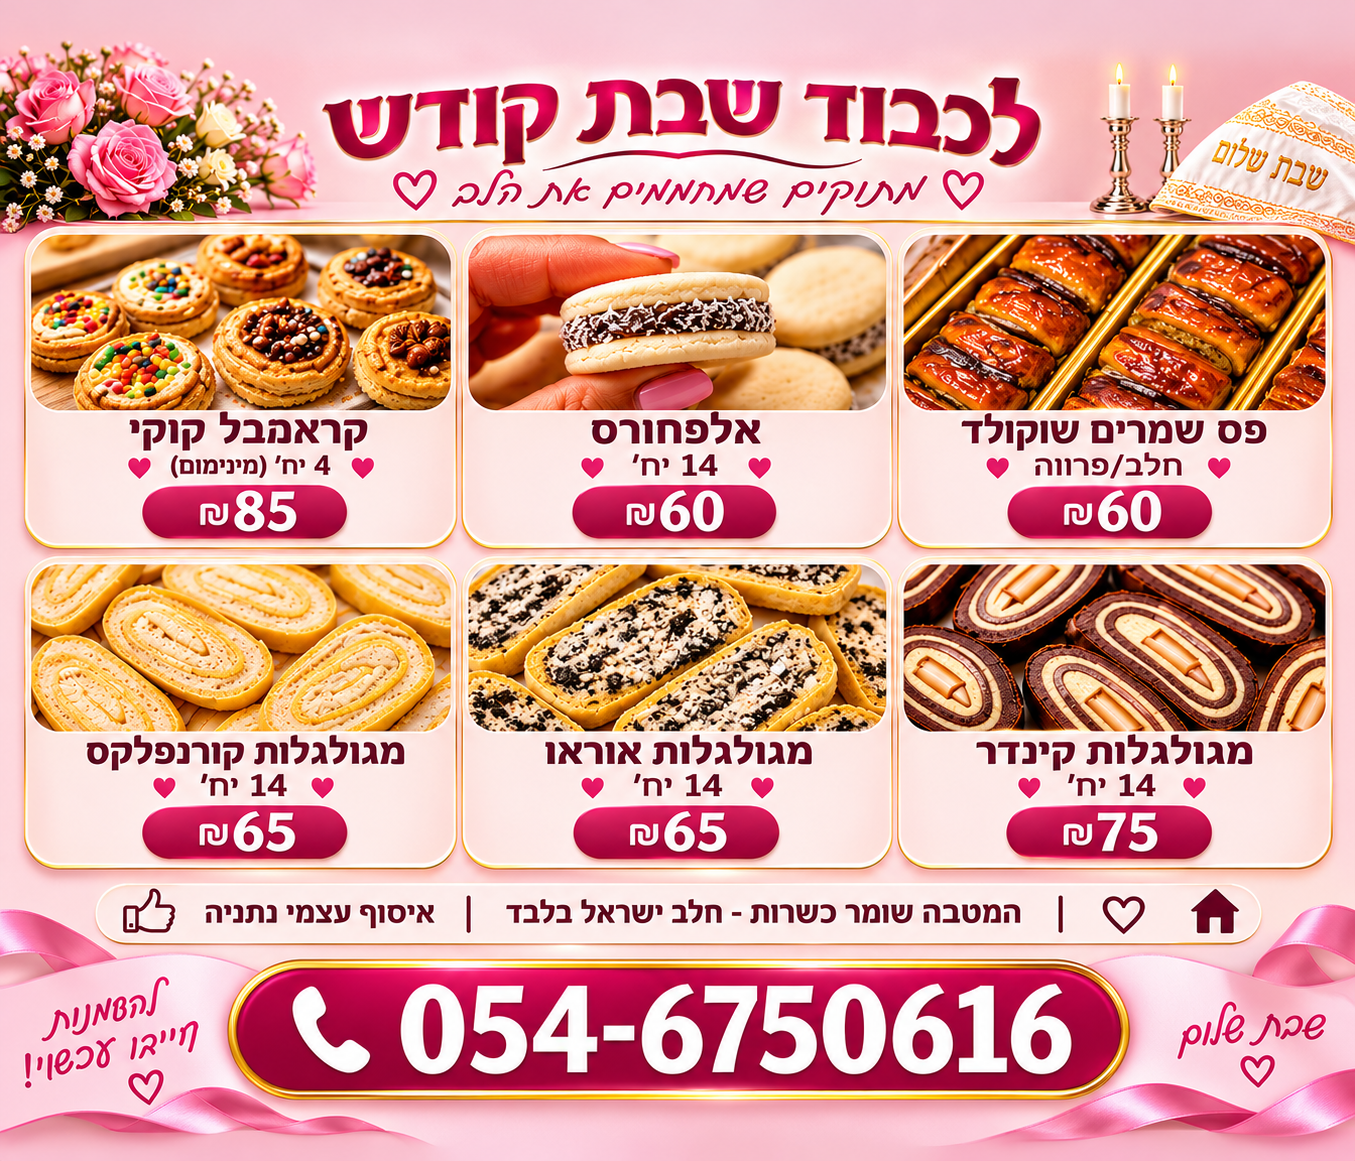
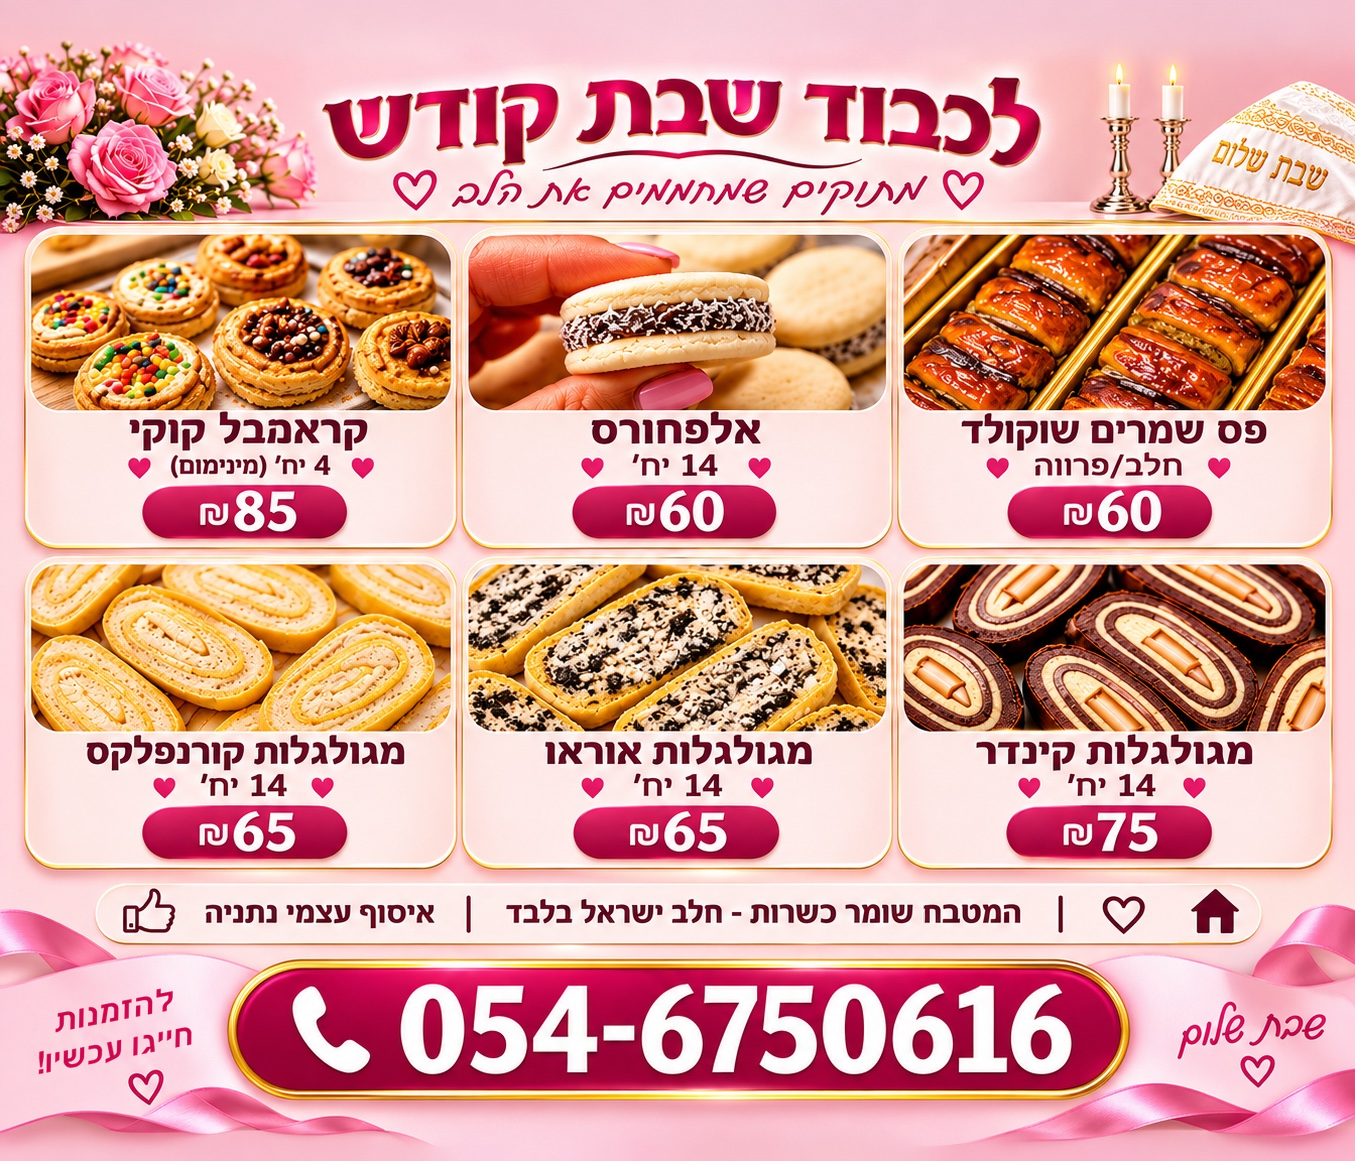
Add files via upload

diff --git a/index.html b/index.html
@@ -1,0 +1,205 @@
+<!doctype html>
+<html lang="he" dir="rtl">
+<head>
+<meta charset="utf-8">
+<meta name="viewport" content="width=device-width,initial-scale=1">
+<meta http-equiv="Cache-Control" content="no-cache, no-store, must-revalidate">
+<meta http-equiv="Pragma" content="no-cache">
+<meta http-equiv="Expires" content="0">
+<title>מסך לובי</title>
+<style>
+:root{--green:#0cad43;--border:#cfd5d8}
+*{box-sizing:border-box}
+html,body{margin:0;width:100%;height:100%;overflow:hidden;background:#111;font-family:Arial,"Noto Sans Hebrew",sans-serif;color:#111}
+.app{width:100vw;height:100vh;background:#fff;display:grid;grid-template-columns:60% 40%;grid-template-rows:calc(100vh - 92px) 92px;direction:ltr}
+.visual{position:relative;overflow:hidden;background:#fff;border-right:1px solid var(--border)}
+.visual img{width:100%;height:100%;object-fit:contain;object-position:center;display:block;background:#fff}
+.panel{direction:rtl;padding:18px 22px 12px;display:grid;grid-template-rows:auto auto auto 1fr;gap:10px;background:#fff}
+.topbar{background:#242a31;color:#fff;text-align:center;font-size:28px;font-weight:700;padding:10px}
+.clock{text-align:center}
+.time{font-size:92px;line-height:1;color:#17c53f;font-weight:500;letter-spacing:2px}
+.date{font-size:24px;margin-top:7px;color:#333}
+.weather{border-top:1px solid #d7d7d7;border-bottom:1px solid #e5e5e5;padding:12px 0 13px;display:grid;grid-template-columns:1.05fr 1.2fr;gap:10px;align-items:center}
+.now{display:flex;justify-content:center;align-items:center;gap:12px}
+.bigicon{font-size:60px}.bigtemp{font-size:58px;line-height:1}.desc{font-size:18px;color:#555;margin-top:6px}
+.forecast{display:grid;grid-template-columns:repeat(3,1fr)}
+.fday{text-align:center;border-right:1px solid #ddd;font-size:15px}.fday:last-child{border-right:none}
+.ficon{font-size:27px;margin:5px 0}.fhi{font-size:20px}.flo{font-size:14px;color:#777}
+.notices{align-self:stretch;background:linear-gradient(#11ad41,#079437);color:#fff;overflow:hidden}
+.ntitle{text-align:center;font-size:28px;font-weight:700;padding:10px;border-bottom:1px solid rgba(255,255,255,.28)}
+.nbody{padding:12px 16px;font-size:20px;line-height:1.55;text-align:right}
+.ticker{grid-column:1/3;display:grid;grid-template-columns:1fr 190px;background:#f5f5f5;border-top:1px solid #c7c7c7;overflow:hidden;direction:ltr}
+.newswindow{position:relative;overflow:hidden;height:100%;direction:rtl}
+.newsline{position:absolute;top:50%;right:100%;white-space:nowrap;font-size:25px;transform:translateY(-50%);animation:moveRTL 55s linear infinite;direction:rtl;text-align:right}
+@keyframes moveRTL{0%{right:100%}100%{right:-300%}}
+.brand{display:flex;align-items:center;justify-content:center;gap:5px;border-left:1px solid #bbb;font:bold 41px Arial;direction:ltr}
+.y{width:52px;height:52px;border-radius:50%;display:flex;align-items:center;justify-content:center;background:#d90000;color:#fff;font-size:38px}
+@media(max-width:1000px){.time{font-size:70px}.topbar{font-size:22px}.date{font-size:19px}.nbody{font-size:17px}.newsline{font-size:21px}}
+</style>
+</head>
+<body>
+<div class="app">
+  <section class="visual">
+    <img id="mainImage" alt="תמונת לובי">
+  </section>
+
+  <aside class="panel">
+    <div class="topbar">ברוכים הבאים לבניין</div>
+
+    <div class="clock">
+      <div class="time" id="time">--:--</div>
+      <div class="date" id="date"></div>
+    </div>
+
+    <div class="weather">
+      <div class="now">
+        <div class="bigicon" id="wicon">☀</div>
+        <div>
+          <div class="bigtemp" id="temp">--°</div>
+          <div class="desc" id="desc">מזג האוויר בנתניה</div>
+        </div>
+      </div>
+      <div class="forecast" id="forecast"></div>
+    </div>
+
+    <div class="notices">
+      <div class="ntitle">הודעות לדיירים</div>
+      <div class="nbody">
+        <div>• נא לשמור על ניקיון הלובי והשטחים המשותפים</div>
+        <div>• אין להשאיר ציוד בשטחים המשותפים</div>
+        <div>• המבנה מצולם 24/7</div>
+        <div>• תודה על שיתוף הפעולה</div>
+      </div>
+    </div>
+  </aside>
+
+  <footer class="ticker">
+    <div class="newswindow"><div class="newsline" id="news">טוען כותרות ynet...</div></div>
+    <div class="brand"><span class="y">y</span><span>net</span></div>
+  </footer>
+</div>
+
+<script>
+const $=id=>document.getElementById(id);
+
+/* רוטציית תמונות יציבה — תמונה אחרת בכל דקה לפי השעון */
+const lobbyImages = [
+  'business-ad.png',
+  'gurman.png',
+  'pizza-balls.png',
+  'cleanliness.jpg',
+  'itzik-electrician.png',
+  'shabbat-sweets-wide.png',
+  'aviva-mahlouf.png'
+];
+
+const SLOT_MS = 60 * 1000;
+const mainImage = $('mainImage');
+let shownSlot = -1;
+let loadToken = 0;
+
+function loadSlideForSlot(slot){
+  const token = ++loadToken;
+  const total = lobbyImages.length;
+  const firstIndex = slot % total;
+  let attempts = 0;
+
+  function tryIndex(index){
+    if (token !== loadToken) return;
+    const file = lobbyImages[index];
+    const src = file + '?slot=' + slot + '&rev=20261113-mitbach-fixed';
+    const probe = new Image();
+
+    probe.onload = function(){
+      if (token !== loadToken) return;
+      mainImage.src = src;
+      mainImage.dataset.file = file;
+    };
+
+    probe.onerror = function(){
+      attempts++;
+      if (attempts < total) {
+        tryIndex((index + 1) % total);
+      }
+    };
+
+    probe.src = src;
+  }
+
+  tryIndex(firstIndex);
+}
+
+function updateLobbyImage(force){
+  const slot = Math.floor(Date.now() / SLOT_MS);
+  if (!force && slot === shownSlot) return;
+  shownSlot = slot;
+  loadSlideForSlot(slot);
+}
+
+/* בדיקה כל שנייה. גם אם הטלוויזיה/דפדפן השהו טיימרים, החישוב לפי השעה מחזיר מיד לתמונה הנכונה. */
+updateLobbyImage(true);
+setInterval(function(){ updateLobbyImage(false); }, 1000);
+
+/* חזרה למסך אחרי שינה/מעבר אפליקציה */
+document.addEventListener('visibilitychange', function(){
+  if (!document.hidden) updateLobbyImage(true);
+});
+window.addEventListener('focus', function(){ updateLobbyImage(true); });
+window.addEventListener('pageshow', function(){ updateLobbyImage(true); });
+
+function updateClock(){
+  const d=new Date();
+  $('time').textContent=d.toLocaleTimeString('he-IL',{hour:'2-digit',minute:'2-digit',hour12:false});
+  $('date').textContent=d.toLocaleDateString('he-IL',{weekday:'long',day:'numeric',month:'long',year:'numeric'});
+}
+updateClock(); setInterval(updateClock,1000);
+
+function weatherLabel(c){
+ const m={0:['בהיר','☀'],1:['בהיר לרוב','🌤'],2:['מעונן חלקית','⛅'],3:['מעונן','☁'],45:['ערפל','🌫'],48:['ערפל','🌫'],51:['טפטוף קל','🌦'],53:['טפטוף','🌦'],55:['טפטוף חזק','🌧'],61:['גשם קל','🌦'],63:['גשם','🌧'],65:['גשם חזק','🌧'],80:['ממטרים','🌦'],81:['ממטרים','🌧'],82:['ממטרים חזקים','⛈'],95:['סופת רעמים','⛈'],96:['סופת רעמים','⛈'],99:['סופת רעמים','⛈']};
+ return m[c]||['מזג אוויר','🌤'];
+}
+async function getJSON(url,timeout=12000){
+ const ctl=new AbortController(), t=setTimeout(()=>ctl.abort(),timeout);
+ try{
+   const r=await fetch(url,{cache:'no-store',signal:ctl.signal});
+   if(!r.ok) throw new Error(r.status);
+   return await r.json();
+ } finally { clearTimeout(t); }
+}
+async function updateWeather(){
+ try{
+   const d=await getJSON('https://api.open-meteo.com/v1/forecast?latitude=32.3215&longitude=34.8532&current=temperature_2m,weather_code&daily=weather_code,temperature_2m_max,temperature_2m_min&timezone=Asia%2FJerusalem&forecast_days=4&ts='+Date.now());
+   const [txt,ic]=weatherLabel(d.current.weather_code);
+   $('temp').textContent=Math.round(d.current.temperature_2m)+'°';
+   $('desc').textContent=txt+' • נתניה';
+   $('wicon').textContent=ic;
+   $('forecast').innerHTML='';
+   ['היום','מחר','מחרתיים'].forEach((name,i)=>{
+      const [,fi]=weatherLabel(d.daily.weather_code[i]);
+      $('forecast').insertAdjacentHTML('beforeend',
+        `<div class="fday"><div>${name}</div><div class="ficon">${fi}</div><div class="fhi">${Math.round(d.daily.temperature_2m_max[i])}°</div><div class="flo">${Math.round(d.daily.temperature_2m_min[i])}°</div></div>`);
+   });
+ }catch(e){$('desc').textContent='מזג האוויר יתעדכן כשיהיה חיבור';}
+}
+updateWeather();
+setInterval(updateWeather,10*60*1000);
+
+async function updateNews(){
+ try{
+   const d=await getJSON('/api/ynet?ts='+Date.now(),12000);
+   if(d.items && d.items.length){
+      $('news').textContent=d.items.map(x=>x.title).join('   •   ');
+   } else {
+      throw new Error('no items');
+   }
+ }catch(e){
+   $('news').textContent='חדשות ynet יתעדכנו אוטומטית כשהחיבור זמין';
+ }
+}
+updateNews();
+setInterval(updateNews,3*60*1000);
+
+setTimeout(()=>location.reload(),6*60*60*1000);
+</script>
+</body>
+</html>
